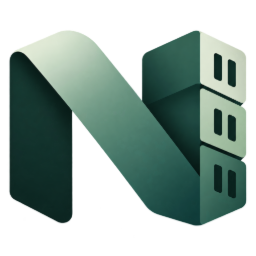
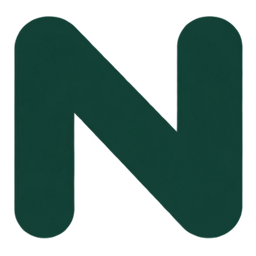
feat: 새 브랜드 로고와 파비콘을 사이드바와 대기 화면에 적용한다

diff --git a/index.html b/index.html
@@ -1,2 +1,2 @@
 <!doctype html>
-<html lang="en"><head><meta charset="UTF-8"/><meta name="viewport" content="width=device-width, initial-scale=1.0"/><meta name="theme-color" content="#163d35"/><title>Naru</title><link rel="icon" type="image/png" sizes="32x32" href="/brand/naru-icon-32.png"/><link rel="icon" type="image/png" sizes="64x64" href="/brand/naru-icon-64.png"/><link rel="apple-touch-icon" href="/brand/naru-mark.png"/></head><body><div id="root"></div><script type="module" src="/src/main.jsx"></script></body></html>
+<html lang="en"><head><meta charset="UTF-8"/><meta name="viewport" content="width=device-width, initial-scale=1.0"/><meta name="theme-color" content="#163d35"/><title>Naru</title><link rel="icon" type="image/png" sizes="32x32" href="/brand/naru-icon-32.png?v=20261017"/><link rel="icon" type="image/png" sizes="64x64" href="/brand/naru-icon-64.png?v=20261017"/><link rel="apple-touch-icon" href="/brand/naru-mark.png?v=20261017"/></head><body><div id="root"></div><script type="module" src="/src/main.jsx"></script></body></html>

diff --git a/src/main.jsx b/src/main.jsx
@@ -307,11 +307,9 @@ function Shell() {
               to="/"
               className="mx-3.5 mb-11 flex flex-none items-center gap-2.5 rounded-[10px] hover:bg-[#ffffff0b] max-desktop:ml-3 max-tablet:mb-6"
             >
-              {/* 마크의 짙은 초록이 사이드바 배경에 묻히지 않도록 밝은 타일 위에 둔다. */}
-              <span className="flex h-9.5 w-9.5 flex-none items-center justify-center rounded-[10px] bg-[#e8eedf]">
-                <img className="h-8.5 w-8.5" src="/brand/naru-mark.png" alt="" />
+              <span className="flex w-full items-center justify-center rounded-[10px] bg-[#e8eedf] px-3 py-2.5">
+                <img className="h-auto w-full" src="/brand/naru-wordmark.png?v=20261017" alt="Naru" />
               </span>
-              <img className="h-6.5 w-auto" src="/brand/naru-wordmark-light.png" alt="Naru" />
             </Link>
             <nav aria-label={t('주요 메뉴')} className="flex flex-col gap-1.25">
               {nav.map(([to, label, Icon]) => (

diff --git a/src/ui.jsx b/src/ui.jsx
@@ -284,7 +284,7 @@ export function RuntimeEmpty() {
   return (
     <div className="flex min-h-[calc(100dvh-86px)] flex-col items-center justify-center px-7.5 py-15 text-center max-tablet:min-h-[calc(100dvh-68px)]">
       <div className="mb-7 flex h-23.5 w-23.5 -rotate-5 items-center justify-center rounded-[26px] bg-[#e8eedf]">
-        <img className="h-16 w-16 rotate-5" src="/brand/naru-mark.png" alt="" />
+        <img className="h-16 w-16 rotate-5" src="/brand/naru-mark.png?v=20261017" alt="" />
       </div>
       <h2 className="mb-7 text-[34px] max-tablet:text-[28px]">
         {status?.installed
